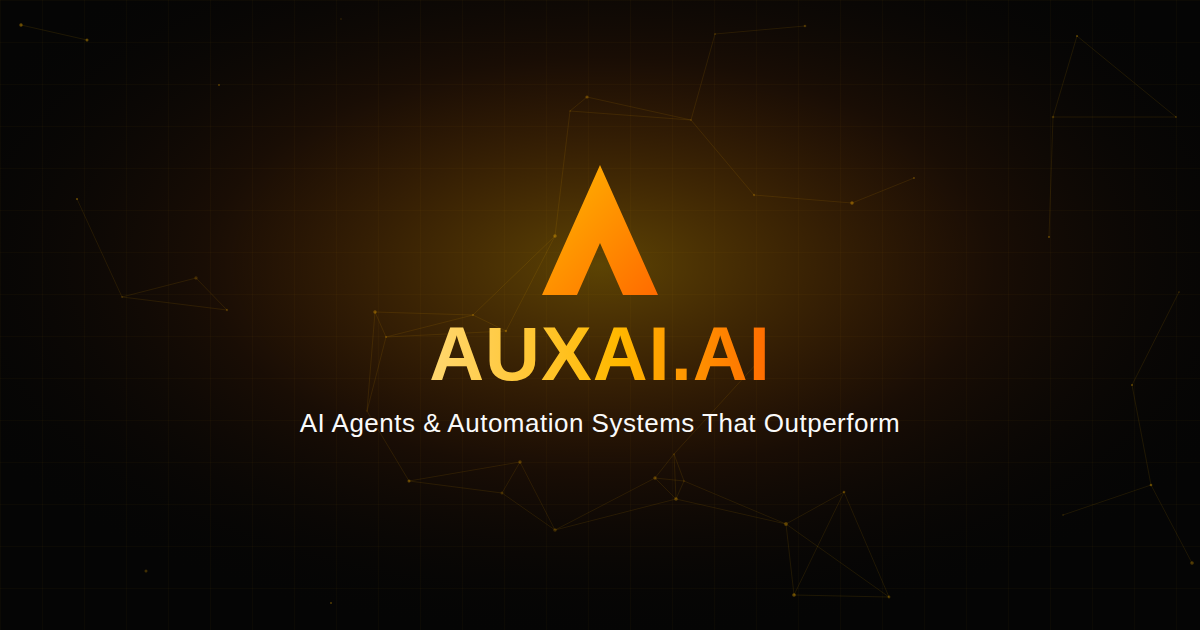
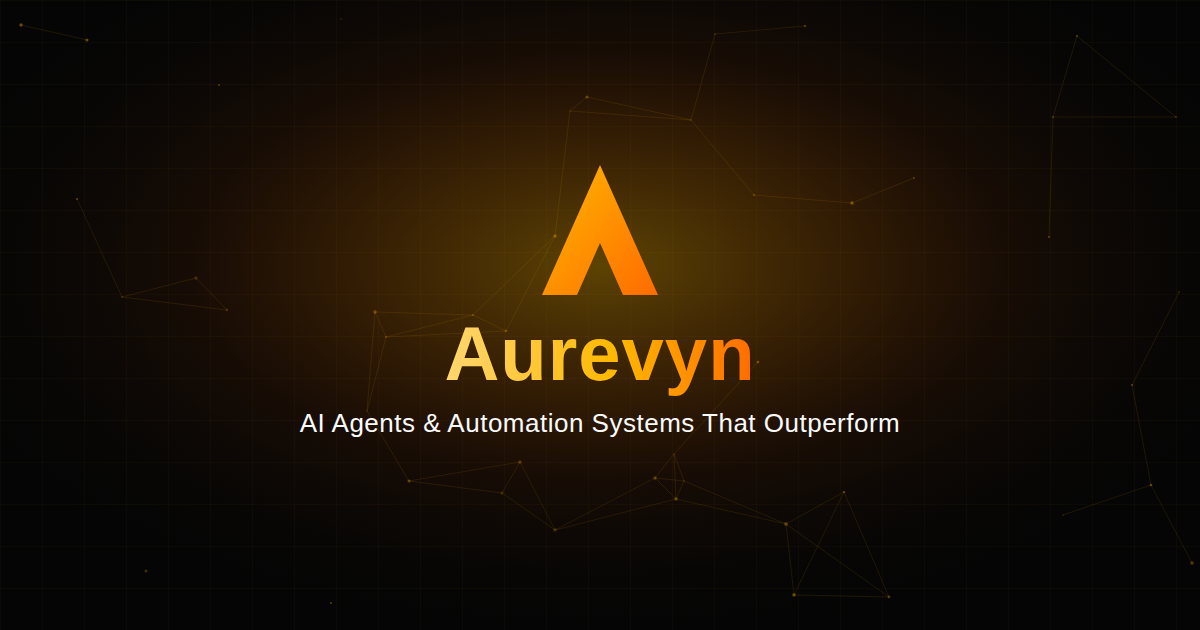
Rebrand AUXAI.AI -> Aurevyn + add independent cursor-follow glow
1) Rebrand: replace every AUXAI.AI / AUXAI / auxai instance with Aurevyn across
   copy, navbar logo wordmark + aria-label, branded intro, footer, all sections,
   trial pages, index.html title/description/OG/Twitter meta, canonical +
   placeholder domain (auxai.ai -> aurevyn.ai), package name, Cal link, contact
   email, localStorage key, DESIGN.md, and the OG image (SVG text updated + PNG
   re-rendered). The logo wordmark drops the ".AI" accent suffix; the brand-intro
   accent index is neutralised so "Aurevyn" renders as one clean wordmark.

2) New CursorGlow component: a soft warm light that trails the pointer, mounted
   once in App as a fixed, pointer-events-none, additive layer. It is fully
   independent of the hero ScrollFrames/ScrollVideo — it never touches or wraps
   them, so the scroll animation is unaffected. Position is written to a
   transform via rAF (lerp-smoothed, no per-frame React state). Disabled for
   coarse/touch pointers and prefers-reduced-motion.

Hero video/animation mechanism untouched (scroll-video.tsx / scroll-frames.tsx
unchanged). Typecheck + build pass.

Claude-Session: https://claude.ai/code/session_016oyLx7eHJe1xGcuoZyMkfD

Changed region(s): [[0.3392, 0.5127, 0.6475, 0.6333]]

diff --git a/index.html b/index.html
@@ -14,32 +14,32 @@
     <link rel="dns-prefetch" href="https://cal.com" />
     <link rel="dns-prefetch" href="https://api.emailjs.com" />
 
-    <title>AUXAI.AI — AI Automation Systems for Modern Businesses</title>
+    <title>Aurevyn — AI Automation Systems for Modern Businesses</title>
     <meta
       name="description"
-      content="AUXAI.AI builds AI agents and automation systems that handle repetitive customer, sales, and operational workflows — so your team focuses on the work that actually needs humans."
+      content="Aurevyn builds AI agents and automation systems that handle repetitive customer, sales, and operational workflows — so your team focuses on the work that actually needs humans."
     />
     <!-- Placeholder domain until the site has a real production URL. -->
-    <link rel="canonical" href="https://auxai.ai/" />
+    <link rel="canonical" href="https://aurevyn.ai/" />
 
     <meta property="og:type" content="website" />
-    <meta property="og:url" content="https://auxai.ai/" />
-    <meta property="og:title" content="AUXAI.AI — AI Automation Systems for Modern Businesses" />
+    <meta property="og:url" content="https://aurevyn.ai/" />
+    <meta property="og:title" content="Aurevyn — AI Automation Systems for Modern Businesses" />
     <meta
       property="og:description"
-      content="AUXAI.AI builds AI agents and automation systems that handle repetitive customer, sales, and operational workflows — so your team focuses on the work that actually needs humans."
+      content="Aurevyn builds AI agents and automation systems that handle repetitive customer, sales, and operational workflows — so your team focuses on the work that actually needs humans."
     />
-    <meta property="og:image" content="https://auxai.ai/og-image.png" />
+    <meta property="og:image" content="https://aurevyn.ai/og-image.png" />
     <meta property="og:image:width" content="1200" />
     <meta property="og:image:height" content="630" />
 
     <meta name="twitter:card" content="summary_large_image" />
-    <meta name="twitter:title" content="AUXAI.AI — AI Automation Systems for Modern Businesses" />
+    <meta name="twitter:title" content="Aurevyn — AI Automation Systems for Modern Businesses" />
     <meta
       name="twitter:description"
-      content="AUXAI.AI builds AI agents and automation systems that handle repetitive customer, sales, and operational workflows — so your team focuses on the work that actually needs humans."
+      content="Aurevyn builds AI agents and automation systems that handle repetitive customer, sales, and operational workflows — so your team focuses on the work that actually needs humans."
     />
-    <meta name="twitter:image" content="https://auxai.ai/og-image.png" />
+    <meta name="twitter:image" content="https://aurevyn.ai/og-image.png" />
 
     <!-- Google Analytics 4 -->
     <!-- Replace G-XXXXXXXXXX with your real Google Analytics 4 Measurement ID from analytics.google.com -->
@@ -54,7 +54,7 @@
     </script>
 
     <!-- Alternative: Plausible Analytics (privacy-friendly) -->
-    <!-- <script defer data-domain="auxai.ai" src="https://plausible.io/js/script.js"></script> -->
+    <!-- <script defer data-domain="aurevyn.ai" src="https://plausible.io/js/script.js"></script> -->
   </head>
   <body>
     <div id="root"></div>

diff --git a/src/components/cursor-glow.tsx b/src/components/cursor-glow.tsx
@@ -1,0 +1,77 @@
+import { useEffect, useRef } from "react";
+
+/**
+ * Global, additive cursor-follow glow — a soft warm light that trails the
+ * pointer for a premium, "reads presence" feel. It is a completely independent,
+ * fixed, `pointer-events-none` layer: it never touches, wraps, or reads the
+ * hero ScrollFrames/ScrollVideo component, so the scroll-driven animation
+ * behaves exactly as before.
+ *
+ * Position is written straight to the element's transform via a ref inside a
+ * rAF loop (lerp-smoothed) — no React state per frame, so it costs nothing.
+ * The effect is disabled for coarse/touch pointers and for
+ * prefers-reduced-motion.
+ */
+export function CursorGlow() {
+  const ref = useRef<HTMLDivElement>(null);
+
+  useEffect(() => {
+    const el = ref.current;
+    if (!el || typeof window.matchMedia !== "function") return;
+
+    const finePointer = window.matchMedia("(pointer: fine)").matches;
+    const reduced = window.matchMedia("(prefers-reduced-motion: reduce)").matches;
+    if (!finePointer || reduced) return; // no-op on touch or reduced-motion
+
+    let tx = window.innerWidth / 2;
+    let ty = window.innerHeight / 2;
+    let x = tx;
+    let y = ty;
+    let shown = false;
+    let raf = 0;
+
+    const onMove = (e: PointerEvent) => {
+      tx = e.clientX;
+      ty = e.clientY;
+      if (!shown) {
+        shown = true;
+        el.style.opacity = "1";
+      }
+    };
+    const onLeave = () => {
+      shown = false;
+      el.style.opacity = "0";
+    };
+
+    function loop() {
+      raf = requestAnimationFrame(loop);
+      x += (tx - x) * 0.12; // same 0.12 smoothing feel used elsewhere
+      y += (ty - y) * 0.12;
+      el!.style.transform = `translate3d(${x}px, ${y}px, 0) translate(-50%, -50%)`;
+    }
+
+    window.addEventListener("pointermove", onMove, { passive: true });
+    document.addEventListener("pointerleave", onLeave);
+    loop();
+
+    return () => {
+      cancelAnimationFrame(raf);
+      window.removeEventListener("pointermove", onMove);
+      document.removeEventListener("pointerleave", onLeave);
+    };
+  }, []);
+
+  return (
+    <div aria-hidden="true" className="pointer-events-none fixed inset-0 z-30 overflow-hidden">
+      <div
+        ref={ref}
+        className="absolute left-0 top-0 h-[600px] w-[600px] rounded-full opacity-0 transition-opacity duration-500 will-change-transform"
+        style={{
+          background:
+            "radial-gradient(circle, rgba(193,80,46,0.18) 0%, rgba(224,160,122,0.11) 34%, transparent 68%)",
+          mixBlendMode: "multiply",
+        }}
+      />
+    </div>
+  );
+}

diff --git a/src/components/brand-intro.tsx b/src/components/brand-intro.tsx
@@ -3,10 +3,11 @@ import { AnimatePresence, motion, useReducedMotion, type Variants } from "framer
 import { EASE_OUT as EASE } from "@/lib/motion";
 import { LogoMark } from "@/components/logo-mark";
 
-const BRAND = "AUXAI.AI";
+const BRAND = "Aurevyn";
 const TAGLINE = "We don't automate tasks. We build systems that outperform everyone.";
-// Index in BRAND where the accent-coloured ".AI" begins ("AUXAI" | ".AI").
-const ACCENT_FROM = 5;
+// Aurevyn has no accent-coloured suffix; render the whole wordmark in ink
+// (ACCENT_FROM past the last index means no letter gets the accent colour).
+const ACCENT_FROM = BRAND.length;
 
 // Snappy, staggered letter reveal: blur-to-focus + a small rise, cascading
 // left-to-right. Kept short so the whole intro lands in the 1.5-2.5s window.
@@ -36,7 +37,7 @@ const word: Variants = {
 };
 
 /**
- * Branded intro that plays on every page load: the logo mark + "AUXAI.AI"
+ * Branded intro that plays on every page load: the logo mark + "Aurevyn"
  * reveal letter-by-letter (blur-to-focus), the tagline rises word-by-word,
  * then the whole layer fades out to hand off to the settled hero.
  *

diff --git a/src/components/footer.tsx b/src/components/footer.tsx
@@ -91,11 +91,11 @@ export function Footer() {
               Get in Touch
             </span>
             <a
-              href="mailto:hello@auxai.ai"
+              href="mailto:hello@aurevyn.ai"
               className="mt-4 flex items-center gap-2 text-[15px] text-ink-dim transition-colors hover:text-ink"
             >
               <Mail className="h-4 w-4" strokeWidth={1.75} />
-              hello@auxai.ai
+              hello@aurevyn.ai
             </a>
             <BookACallButton variant="secondary" size="sm" className="mt-6">
               Book Automation Audit
@@ -104,7 +104,7 @@ export function Footer() {
         </div>
 
         <div className="mt-16 flex flex-col gap-4 border-t border-line/60 pt-8 text-[13px] text-ink-faint sm:flex-row sm:items-center sm:justify-between">
-          <p>© {new Date().getFullYear()} AUXAI.AI. All rights reserved.</p>
+          <p>© {new Date().getFullYear()} Aurevyn. All rights reserved.</p>
           <div className="flex items-center gap-5">
             <Link to="/privacy" className="transition-colors hover:text-ink">
               Privacy Policy

diff --git a/src/sections/testimonials.tsx b/src/sections/testimonials.tsx
@@ -52,7 +52,7 @@ interface Testimonial {
 const testimonials: Testimonial[] = [
   {
     quote:
-      "AUXAI.AI didn't hand us a chatbot. They rebuilt how dispatch decisions get made, and our team stopped drowning in the same three questions every day.",
+      "Aurevyn didn't hand us a chatbot. They rebuilt how dispatch decisions get made, and our team stopped drowning in the same three questions every day.",
     name: "Priya Nandakumar",
     role: "VP Operations",
     company: "Halcyon Freight",
@@ -68,7 +68,7 @@ const testimonials: Testimonial[] = [
   },
   {
     quote:
-      "Every vendor before them promised automation. AUXAI.AI is the first one that shipped something our analysts actually trust with real client data.",
+      "Every vendor before them promised automation. Aurevyn is the first one that shipped something our analysts actually trust with real client data.",
     name: "Elena Sokolova",
     role: "Head of Portfolio Ops",
     company: "Clearwater Capital",

diff --git a/src/App.tsx b/src/App.tsx
@@ -4,6 +4,7 @@ import { BrowserRouter, Route, Routes, useLocation } from "react-router-dom";
 import { HomePage } from "@/pages/home";
 import { ComingSoonPage } from "@/pages/coming-soon";
 import { ToastProvider } from "@/hooks/use-toast";
+import { CursorGlow } from "@/components/cursor-glow";
 
 // Home stays a static import since it's the entry route almost every
 // visitor lands on first. Everything else is route-level code-split: each
@@ -120,6 +121,9 @@ export default function App() {
     // cursor-follow sheen) still carry their own useReducedMotion() checks.
     <MotionConfig reducedMotion="user">
       <ToastProvider>
+        {/* Independent, additive cursor-follow glow — does not touch the hero
+            ScrollFrames layer; disabled for touch / reduced-motion. */}
+        <CursorGlow />
         <BrowserRouter>
           <ScrollToTop />
           <AnimatedRoutes />

diff --git a/src/pages/try-voice-agent.tsx b/src/pages/try-voice-agent.tsx
@@ -13,7 +13,7 @@ interface Line {
 }
 
 const SCRIPT: Line[] = [
-  { role: "ai", text: "Hello, this is AUXAI. How can I help you today?" },
+  { role: "ai", text: "Hello, this is Aurevyn. How can I help you today?" },
   { role: "user", text: "I need to book an appointment" },
   { role: "ai", text: "Sure! I can help with that. What date works best for you?" },
   { role: "user", text: "Tomorrow at 3 PM" },
@@ -164,7 +164,7 @@ function TranscriptLine({ line, isLatest }: { line: Line; isLatest: boolean }) {
           isAI ? "text-accent" : "text-ink-faint",
         )}
       >
-        {isAI ? "AUXAI" : "Caller"}
+        {isAI ? "Aurevyn" : "Caller"}
       </span>
       <p className="max-w-[85%] text-sm leading-relaxed text-ink">
         {isLatest ? <TypingText text={line.text} start speed={22} /> : line.text}

diff --git a/src/pages/coming-soon.tsx b/src/pages/coming-soon.tsx
@@ -49,8 +49,8 @@ export function ComingSoonPage({ title }: { title: string }) {
             <h1 className="mt-5 text-2xl font-medium tracking-tight text-ink">{title}</h1>
             <p className="mt-3 max-w-xs text-[15px] leading-relaxed text-ink-dim">
               This page is coming soon. In the meantime, reach us directly at{" "}
-              <a href="mailto:hello@auxai.ai" className="text-accent hover:text-coral">
-                hello@auxai.ai
+              <a href="mailto:hello@aurevyn.ai" className="text-accent hover:text-coral">
+                hello@aurevyn.ai
               </a>
               .
             </p>

diff --git a/src/sections/faq.tsx b/src/sections/faq.tsx
@@ -10,7 +10,7 @@ import { LiquidHeadingReveal } from "@/components/liquid-text";
 
 const faqs = [
   {
-    question: "What exactly does AUXAI.AI build?",
+    question: "What exactly does Aurevyn build?",
     answer:
       "AI agents and automation systems that run real business workflows — customer support, lead qualification, scheduling, follow-ups, and internal operations — connected to the tools you already use.",
   },

diff --git a/src/lib/emailjs.ts b/src/lib/emailjs.ts
@@ -11,4 +11,4 @@ export const EMAILJS_PUBLIC_KEY = "YOUR_EMAILJS_PUBLIC_KEY"; // Get from emailjs
 // Destination address - your EmailJS template should send To this
 // address (either hardcode it in the template's "To Email" field, or
 // reference {{to_email}} if the template is built to use it).
-export const CONTACT_DESTINATION_EMAIL = "hello@auxai.ai";
+export const CONTACT_DESTINATION_EMAIL = "hello@aurevyn.ai";

diff --git a/src/components/navbar.tsx b/src/components/navbar.tsx
@@ -185,7 +185,7 @@ export function Navbar() {
             scrollTo("hero");
           }}
           transition={SPRING_ISLAND}
-          aria-label="AUXAI.AI home"
+          aria-label="Aurevyn home"
           className={cn(
             "relative flex h-9 w-9 shrink-0 cursor-pointer items-center justify-center rounded-full",
             active === "hero" && "bg-accent/15",

diff --git a/src/components/logo-mark.tsx b/src/components/logo-mark.tsx
@@ -19,7 +19,7 @@ export function Logo({ className }: { className?: string }) {
     <span className={cn("inline-flex items-center gap-2.5", className)}>
       <LogoMark />
       <span className="font-mono text-[15px] font-medium tracking-[0.02em] text-ink">
-        AUXAI<span className="text-accent">.AI</span>
+        Aurevyn
       </span>
     </span>
   );
